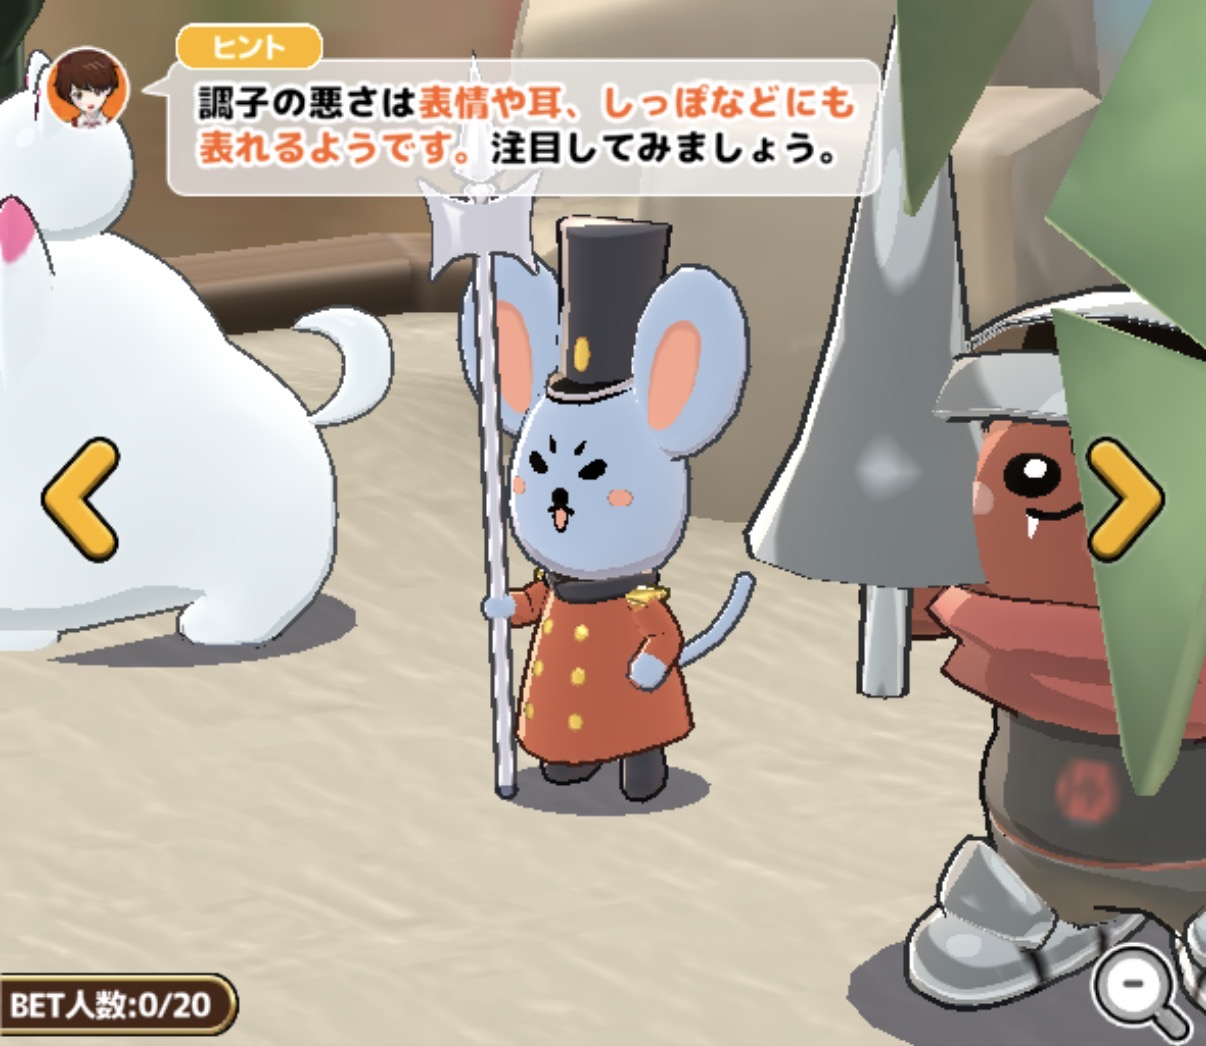
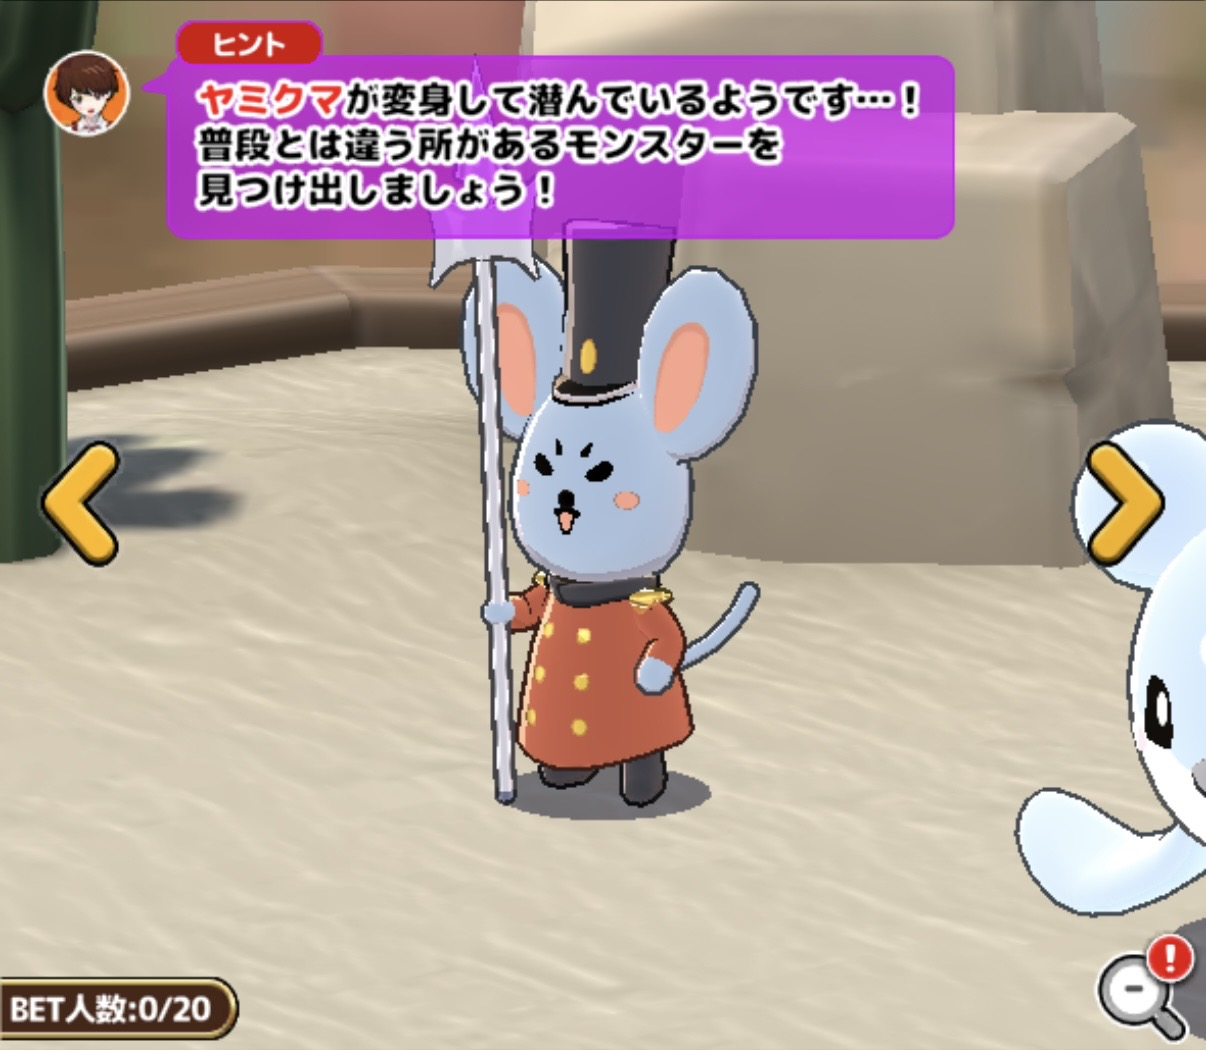
情報更新

diff --git a/index.html b/index.html
@@ -37,7 +37,7 @@
   <link rel="preconnect" href="https://fonts.googleapis.com">
   <link rel="preconnect" href="https://fonts.gstatic.com" crossorigin>
   <link href="https://fonts.googleapis.com/css2?family=Dela+Gothic+One&family=Zen+Antique&family=Noto+Sans+JP:wght@400;500;700;900&display=swap" rel="stylesheet">
-  <link rel="stylesheet" href="style.css?v=0.2.7">
+  <link rel="stylesheet" href="style.css?v=0.2.8">
 </head>
 <body>
 
@@ -213,9 +213,9 @@
     </svg>
   </div>
 
-  <script src="data-normal.js?v=0.2.7" defer></script>
-  <script src="data-anomaly.js?v=0.2.7" defer></script>
-  <script src="script.js?v=0.2.7" defer></script>
+  <script src="data-normal.js?v=0.2.8" defer></script>
+  <script src="data-anomaly.js?v=0.2.8" defer></script>
+  <script src="script.js?v=0.2.8" defer></script>
   <script src="url-change-notice.js?v=0.0.3"></script>
 </body>
 </html>

diff --git a/data-anomaly.js b/data-anomaly.js
@@ -67,6 +67,11 @@ const ANOMALY_DATA = {
     {
       note: "羽",
       point: "羽がなくなっている。",
+      compareIndex: 1
+    },
+    {
+      note: "羽",
+      point: "羽がなくなっている。",
       compareIndex: 2
     },
     {
@@ -133,6 +138,13 @@ const ANOMALY_DATA = {
       note: "耳",
       point: "耳が通常時と比べて平行。",
       compareIndex: 1
+    },
+  ],
+  m09: [
+    {
+      note: "武器",
+      point: "武器が棍棒から剣になっている。",
+      compareIndex: 3
     },
   ],
   m11: [
